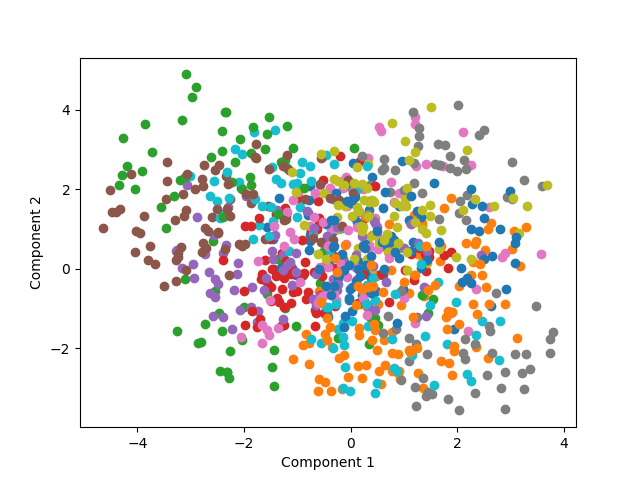
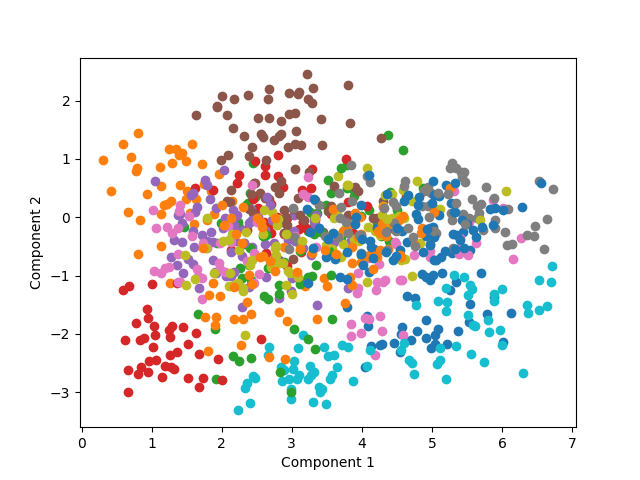
Update dim. red scripts

diff --git a/scripts/dim_red_multiple_labels.py b/scripts/dim_red_multiple_labels.py
@@ -1,0 +1,70 @@
+# TODO: Bring in full funcitonality of `dimensionality_reduction_concepts.py`
+from glob import glob
+import matplotlib.pyplot as plt
+import numpy as np
+from sklearn.decomposition import PCA, SparsePCA
+
+# def plot_concept_activations(concepts, label, layer, colour):
+def plot_concept_activations(concepts, label, layer, colour, embedding):
+
+    all_image_acts = []
+    for concept in concepts:
+
+        image_acts = np.array([np.load(acts).squeeze() for acts in glob(f'./acts/{label}/acts_{label}_{concept}_*_{layer}')])
+        image_acts = [x for x in image_acts if isinstance(x[0], np.float32)]
+        all_image_acts.extend(image_acts)
+
+    image_acts_embedded = np.dot(all_image_acts,embedding.T)
+
+    plt.scatter(image_acts_embedded[:,0], image_acts_embedded[:,1], label=label, c=colour)
+
+# chart_type = 'top_5'
+chart_type = 'top_10'
+# chart_type = 'all_concepts'
+label1 = 'jeep'
+label2 = 'lipstick'
+layer = 'mixed8'
+concepts1 = np.unique([x.split('_')[2] for x in glob(f'./acts/{label1}/*_{layer}') if 'concept' in x]).tolist()
+concepts2 = np.unique([x.split('_')[2] for x in glob(f'./acts/{label2}/*_{layer}') if 'concept' in x]).tolist()
+
+# Read from ACE result file top N concepts by TCAV score
+all_image_acts = []
+if 'top' in chart_type:
+    start = 4
+    stop = start + int(chart_type.split('_')[-1])
+
+    with open(f'../ACE/ACE/results_summaries/{layer}_{label1}_ace_results.txt') as f:
+        lines = f.readlines()
+    top_concepts1 = [line.split(':')[1].split('_')[-1] for line in lines[start:stop]]
+    concepts1 = [concept for concept in concepts1 if concept in top_concepts1]
+
+    for concept in concepts1:
+        image_acts = np.array([np.load(acts).squeeze() for acts in glob(f'./acts/{label1}/acts_{label1}_{concept}_*_{layer}')])
+        image_acts = [x for x in image_acts if isinstance(x[0], np.float32)]
+        all_image_acts.extend(image_acts)
+
+    with open(f'../ACE/ACE/results_summaries/{layer}_{label2}_ace_results.txt') as f:
+        lines = f.readlines()
+    top_concepts2 = [line.split(':')[1].split('_')[-1] for line in lines[start:stop]]
+    concepts2 = [concept for concept in concepts2 if concept in top_concepts2]
+
+    for concept in concepts2:
+        image_acts = np.array([np.load(acts).squeeze() for acts in glob(f'./acts/{label2}/acts_{label2}_{concept}_*_{layer}')])
+        image_acts = [x for x in image_acts if isinstance(x[0], np.float32)]
+        all_image_acts.extend(image_acts)
+
+
+pca = PCA(n_components=2)
+pca.fit(all_image_acts)
+pca_c = pca.components_
+
+plot_concept_activations(concepts1, label1, layer, 'tab:blue', pca_c)
+plot_concept_activations(concepts2, label2, layer, 'tab:orange', pca_c)
+plt.legend(loc='upper right')
+
+plt.xlabel('Component 1')
+plt.ylabel('Component 2')
+plt.savefig(f'./concept_activation_plots/{label1}_{label2}_{layer}_{chart_type}_plot.png')
+plt.clf()
+plt.cla()
+plt.close()

diff --git a/scripts/dim_red_check.py b/scripts/dim_red_check.py
@@ -4,8 +4,10 @@ import matplotlib.pyplot as plt
 import numpy as np
 from sklearn.decomposition import PCA, SparsePCA
 
-chart_type = 'top_10'
-label = 'lipstick'
+# chart_type = 'top_5'
+# chart_type = 'top_10'
+chart_type = 'all_concepts'
+label = 'jeep'
 layer = 'mixed8'
 concepts = np.unique([x.split('_')[2] for x in glob(f'./acts/{label}/*_{layer}') if 'concept' in x]).tolist()
 
@@ -21,18 +23,22 @@ if 'top' in chart_type:
 
     concepts = [concept for concept in concepts if concept in top_concepts]
 
+all_image_acts = []
 for concept in concepts:
     image_acts = np.array([np.load(acts).squeeze() for acts in glob(f'./acts/{label}/acts_{label}_{concept}_*_{layer}')])
     image_acts = [x for x in image_acts if isinstance(x[0], np.float32)]
+    all_image_acts.extend(image_acts)
 
-    if len(image_acts) >= 2:
-        pca = PCA(n_components=2)
-        pca.fit(image_acts)
-        pca_c = pca.components_
+pca = PCA(n_components=2)
+pca.fit(all_image_acts)
+pca_c = pca.components_
 
-        image_acts_embedded = np.dot(image_acts,pca_c.T)
+for concept in concepts:
+    image_acts = np.array([np.load(acts).squeeze() for acts in glob(f'./acts/{label}/acts_{label}_{concept}_*_{layer}')])
+    image_acts = [x for x in image_acts if isinstance(x[0], np.float32)]
+    image_acts_embedded = np.dot(image_acts,pca_c.T)
 
-        plt.scatter(image_acts_embedded[:,0], image_acts_embedded[:,1], label=f'{concept}')
+    plt.scatter(image_acts_embedded[:,0], image_acts_embedded[:,1], label=f'{concept}')
 
 if chart_type != 'all_concepts':
     concept_labels = ['Concept ' + concept.split('concept')[-1] for concept in np.unique(top_concepts)]
